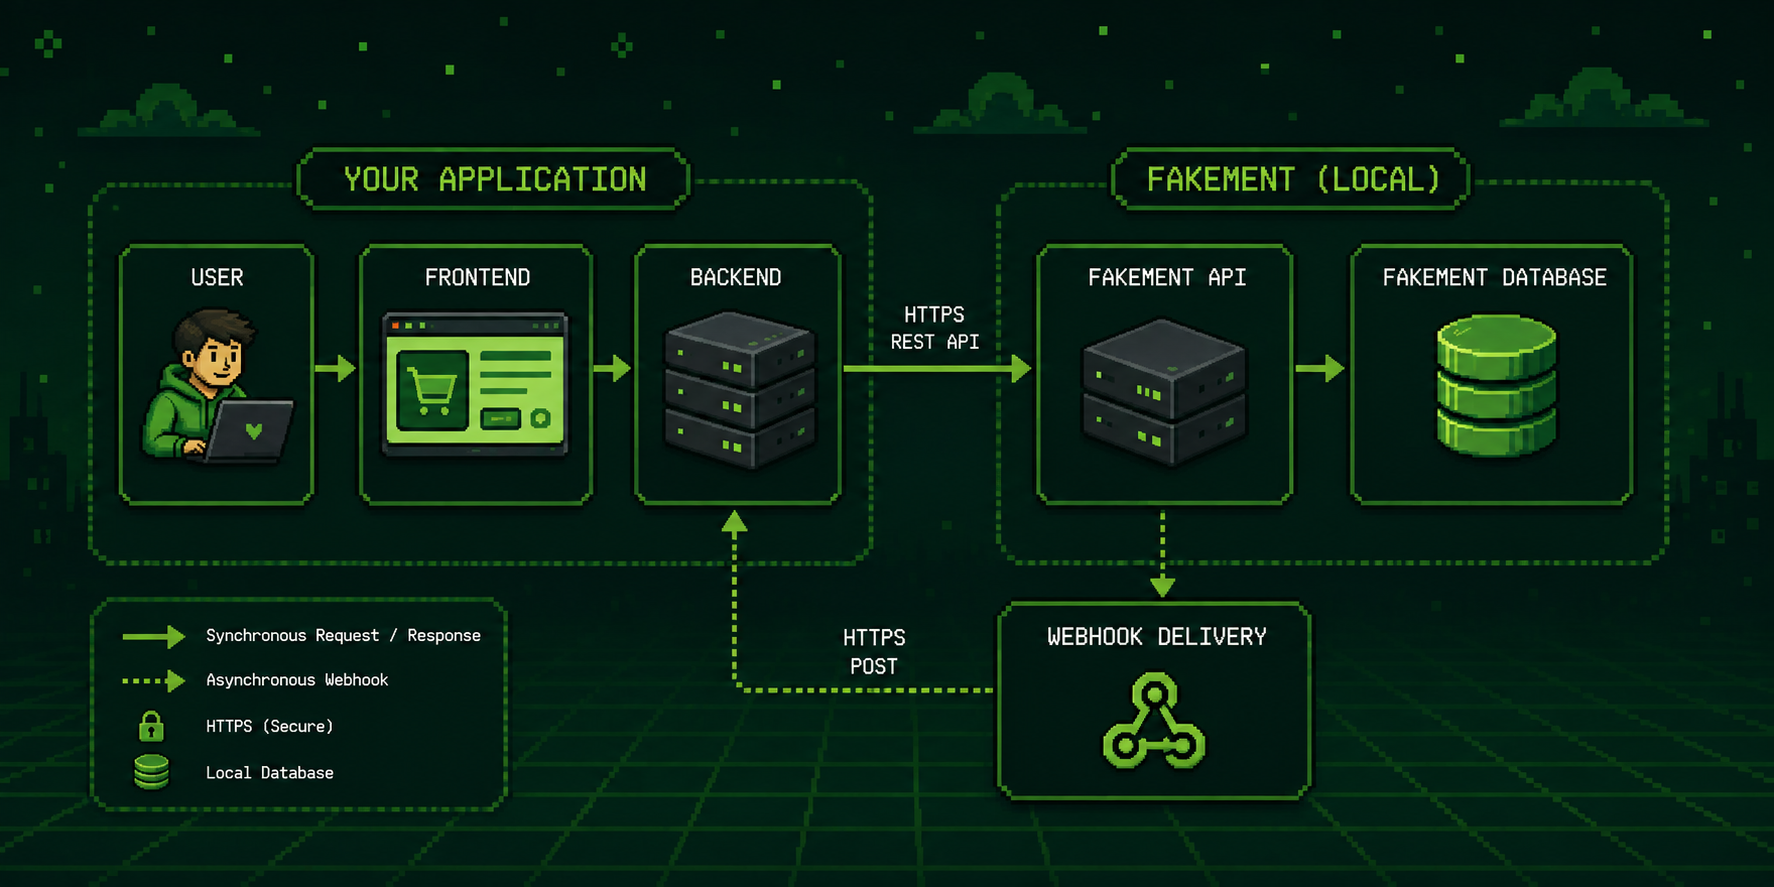
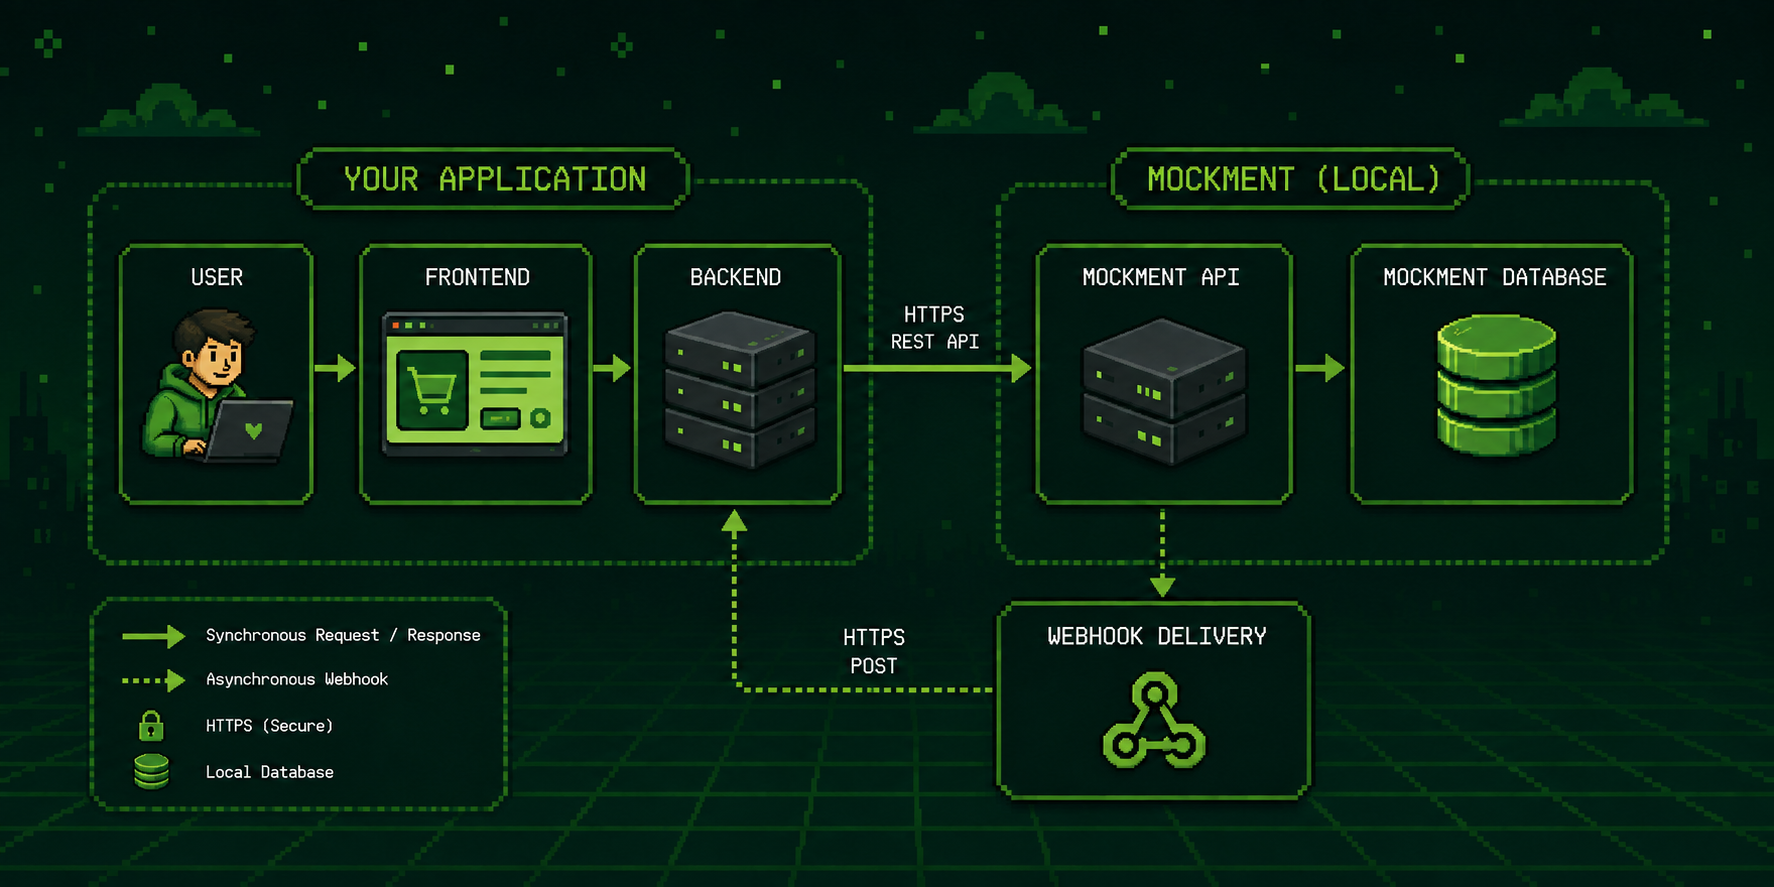
chore: rename project name from Fakement to Mockment

diff --git a/apps/web/src/pages/checkout.tsx b/apps/web/src/pages/checkout.tsx
@@ -104,7 +104,7 @@ export function CheckoutPage() {
               <div className="flex flex-col justify-between gap-8 p-8">
                 <div>
                   <Logo
-                    href="https://github.com/arthurmousinho/fakement"
+                    href="https://github.com/arthurmousinho/mockment"
                     target="_blank"
                   />
                   <p className="mt-10 text-muted-foreground">

diff --git a/apps/api/src/app.ts b/apps/api/src/app.ts
@@ -1,15 +1,15 @@
-import Fastify from 'fastify';
+import Fastify from "fastify";
 
 export function createApp() {
   const app = Fastify({
     logger: true,
   });
 
-  app.get('/', async () => {
+  app.get("/", async () => {
     return {
-      message: "Welcome to @fakement/api",
+      message: "Welcome to @mockment/api",
       now: new Date().toISOString(),
-      status: 'ok',
+      status: "ok",
     };
   });
 

diff --git a/apps/web/src/components/header.tsx b/apps/web/src/components/header.tsx
@@ -85,7 +85,7 @@ export function Header() {
 
         <Button variant="outline" asChild>
           <a
-            href="https://github.com/arthurmousinho/fakement"
+            href="https://github.com/arthurmousinho/mockment"
             target="_blank"
             rel="noopener noreferrer"
           >

diff --git a/apps/web/src/components/logo.tsx b/apps/web/src/components/logo.tsx
@@ -13,7 +13,7 @@ export function Logo({ href = "/", target = "_self" }: LogoProps) {
       className="flex items-center gap-2 text-lg font-medium text-primary cursor-pointer"
     >
       <CardholderIcon size={32} />
-      <h1>Fakement</h1>
+      <h1>Mockment</h1>
     </a>
   );
 }

diff --git a/apps/web/index.html b/apps/web/index.html
@@ -3,7 +3,7 @@
   <head>
     <meta charset="UTF-8" />
     <meta name="viewport" content="width=device-width, initial-scale=1.0" />
-    <title>Fakement</title>
+    <title>Mockment</title>
   </head>
   <body>
     <div id="root"></div>

diff --git a/README.MD b/README.MD
@@ -1,12 +1,12 @@
 ![Banner](./.github/banner.png)
 
-# Fakement
+# Mockment
 
 > A local-first fake payment gateway for developing and testing payment integrations.
 
-Fakement is an open-source REST API that **simulates** the behavior of a payment gateway, allowing developers to build and test payment integrations without relying on external providers, internet connectivity, or sandbox environments.
+Mockment is an open-source REST API that **simulates** the behavior of a payment gateway, allowing developers to build and test payment integrations without relying on external providers, internet connectivity, or sandbox environments.
 
-Inspired by tools like Mailcatcher, Fakement provides a predictable and fully local environment for simulating payment flows, webhooks, and transaction lifecycles.
+Inspired by tools like Mailcatcher, Mockment provides a predictable and fully local environment for simulating payment flows, webhooks, and transaction lifecycles.
 
 <p align="left">
   <a href="#motivation">
@@ -39,11 +39,11 @@ Integrating with payment providers during development can be slow and frustratin
 - Different providers expose different APIs
 - Difficult to reproduce edge cases
 
-Fakement solves these problems by providing a local payment gateway that behaves like a real one.
+Mockment solves these problems by providing a local payment gateway that behaves like a real one.
 
 ## Project Status
 
-> **⚠ Fakement is under development.**
+> **⚠ Mockment is under development.**
 
 The project is functional but still evolving. Core features are being implemented incrementally, and breaking changes may occur until the first stable release.
 
@@ -65,31 +65,31 @@ The project is functional but still evolving. Core features are being implemente
 
 ![Architecture](./.github/architecture.png)
 
-Fakement is designed to fit into your existing application like a real payment provider. Instead of communicating with Stripe, Mercado Pago, Adyen, or another external gateway, your backend sends payment requests to a local Fakement instance.
+Mockment is designed to fit into your existing application like a real payment provider. Instead of communicating with Stripe, Mercado Pago, Adyen, or another external gateway, your backend sends payment requests to a local Mockment instance.
 
 The flow is straightforward:
 
 1. The user initiates a payment from your application.
 2. Your frontend sends the request to your backend.
-3. Your backend calls the Fakement REST API.
-4. Fakement simulates the payment lifecycle and stores the transaction locally.
-5. If configured, Fakement sends webhook events back to your application, allowing you to test asynchronous payment flows exactly as they would happen in production.
+3. Your backend calls the Mockment REST API.
+4. Mockment simulates the payment lifecycle and stores the transaction locally.
+5. If configured, Mockment sends webhook events back to your application, allowing you to test asynchronous payment flows exactly as they would happen in production.
 
 Because everything runs locally, developers can build, debug, and reproduce payment scenarios without internet connectivity, sandbox accounts, or third-party dependencies.
 
 ## Tech Stack
 
-![fakement-banner](./.github/tech-stack.png)
+![mockment-banner](./.github/tech-stack.png)
 
 | Technology       | Why it's used                                                                                                           |
 | ---------------- | ----------------------------------------------------------------------------------------------------------------------- |
 | **React**        | Powers the dashboard used to manage API keys, inspect payments, configure webhooks, and monitor simulated transactions. |
 | **Tailwind CSS** | Utility-first CSS framework used to build a modern, responsive, and maintainable interface.                             |
 | **shadcn/ui**    | Provides accessible, reusable UI components built on Radix UI, enabling a consistent developer experience.              |
-| **Node.js**      | JavaScript runtime that powers the Fakement backend and its high-performance REST API.                                  |
+| **Node.js**      | JavaScript runtime that powers the Mockment backend and its high-performance REST API.                                  |
 | **Fastify**      | Fast and lightweight web framework responsible for routing, validation, plugins, and HTTP handling.                     |
 | **Zod**          | Runtime schema validation and TypeScript type inference for requests, responses, configuration and UI forms.            |
-| **Docker**       | Makes Fakement easy to run locally with a consistent environment across operating systems.                              |
+| **Docker**       | Makes Mockment easy to run locally with a consistent environment across operating systems.                              |
 | **Prisma ORM**   | Type-safe ORM used for database access, migrations, and data modeling.                                                  |
 | **MySQL**        | Stores payments, API keys, webhook configurations, events, and other persistent application data.                       |
 
@@ -105,8 +105,8 @@ Before getting started, make sure you have the following installed:
 Clone the repository and navigate to the project directory:
 
 ```bash
-git clone https://github.com/arthurmousinho/fakement.git
-cd fakement
+git clone https://github.com/arthurmousinho/mockment.git
+cd mockment
 ```
 
 Install all workspace dependencies:
@@ -115,7 +115,7 @@ Install all workspace dependencies:
 pnpm install
 ```
 
-Fakement uses MySQL running inside Docker. Start the required containers before running the application:
+Mockment uses MySQL running inside Docker. Start the required containers before running the application:
 
 ```bash
 docker compose up -d
@@ -150,9 +150,9 @@ After everything is running, the services will be available at:
 
 ## Quick Start
 
-Once Fakement is running, you're ready to start simulating payment flows.
+Once Mockment is running, you're ready to start simulating payment flows.
 
-The first step is creating a mock API key. Every request to the Fakement API must be authenticated using an API key, just like a real payment provider.
+The first step is creating a mock API key. Every request to the Mockment API must be authenticated using an API key, just like a real payment provider.
 
 ```bash
 curl -X POST http://localhost:8080/api-keys \
@@ -162,7 +162,7 @@ curl -X POST http://localhost:8080/api-keys \
   }'
 ```
 
-The response contains a `rawKey`. Keep this value safe, as it is the only time it will be returned and it will be required to authenticate future requests. Next, register a webhook endpoint. Fakement will send payment events to this URL whenever a payment changes state. Replace `<YOUR_API_KEY>` with the `rawKey` from the previous step.
+The response contains a `rawKey`. Keep this value safe, as it is the only time it will be returned and it will be required to authenticate future requests. Next, register a webhook endpoint. Mockment will send payment events to this URL whenever a payment changes state. Replace `<YOUR_API_KEY>` with the `rawKey` from the previous step.
 
 ```bash
 curl -X POST http://localhost:8080/webhooks/endpoints \
@@ -196,4 +196,4 @@ curl -X POST http://localhost:8080/payments \
   }'
 ```
 
-If the request succeeds, Fakement will create a new payment and return its details, including the payment identifier and current status. As the payment lifecycle progresses, Fakement will automatically deliver the configured webhook events to your application, allowing you to test your integration exactly as you would with a real payment gateway.
+If the request succeeds, Mockment will create a new payment and return its details, including the payment identifier and current status. As the payment lifecycle progresses, Mockment will automatically deliver the configured webhook events to your application, allowing you to test your integration exactly as you would with a real payment gateway.

diff --git a/CONTRIBUTING.md b/CONTRIBUTING.md
@@ -2,15 +2,15 @@
 
 # Contributing
 
-First of all, thank you for considering contributing to Fakement! 💚
+First of all, thank you for considering contributing to Mockment! 💚
 
-Fakement is an open-source project whose goal is to provide a local-first payment gateway for developers to build, test, and debug payment integrations without relying on external providers or unstable sandbox environments.
+Mockment is an open-source project whose goal is to provide a local-first payment gateway for developers to build, test, and debug payment integrations without relying on external providers or unstable sandbox environments.
 
 Every contribution is appreciated, whether it is fixing a bug, improving the documentation, implementing a feature, or simply suggesting an idea.
 
 ## Project Philosophy
 
-Fakement is designed around a few core principles:
+Mockment is designed around a few core principles:
 
 - **Local-first** — Everything should run entirely on the developer's machine.
 - **Developer Experience** — APIs should be simple, predictable, and pleasant to use.
@@ -163,7 +163,7 @@ The more information you provide, the easier it is to reproduce and fix the issu
 
 ## Feature Requests
 
-One of Fakement's goals is to simulate the behavior of real-world payment gateways while remaining lightweight and easy to understand.
+One of Mockment's goals is to simulate the behavior of real-world payment gateways while remaining lightweight and easy to understand.
 
 If you have ideas that improve the developer experience without making the project unnecessarily complex, we'd love to hear them.
 
@@ -185,6 +185,6 @@ We're happy to help.
 
 Open source only exists because people choose to contribute.
 
-Whether you're fixing a typo, reporting a bug, improving documentation, or implementing a major feature, your contribution helps make Fakement better for developers everywhere.
+Whether you're fixing a typo, reporting a bug, improving documentation, or implementing a major feature, your contribution helps make Mockment better for developers everywhere.
 
 Thank you for being part of the project. 🚀
